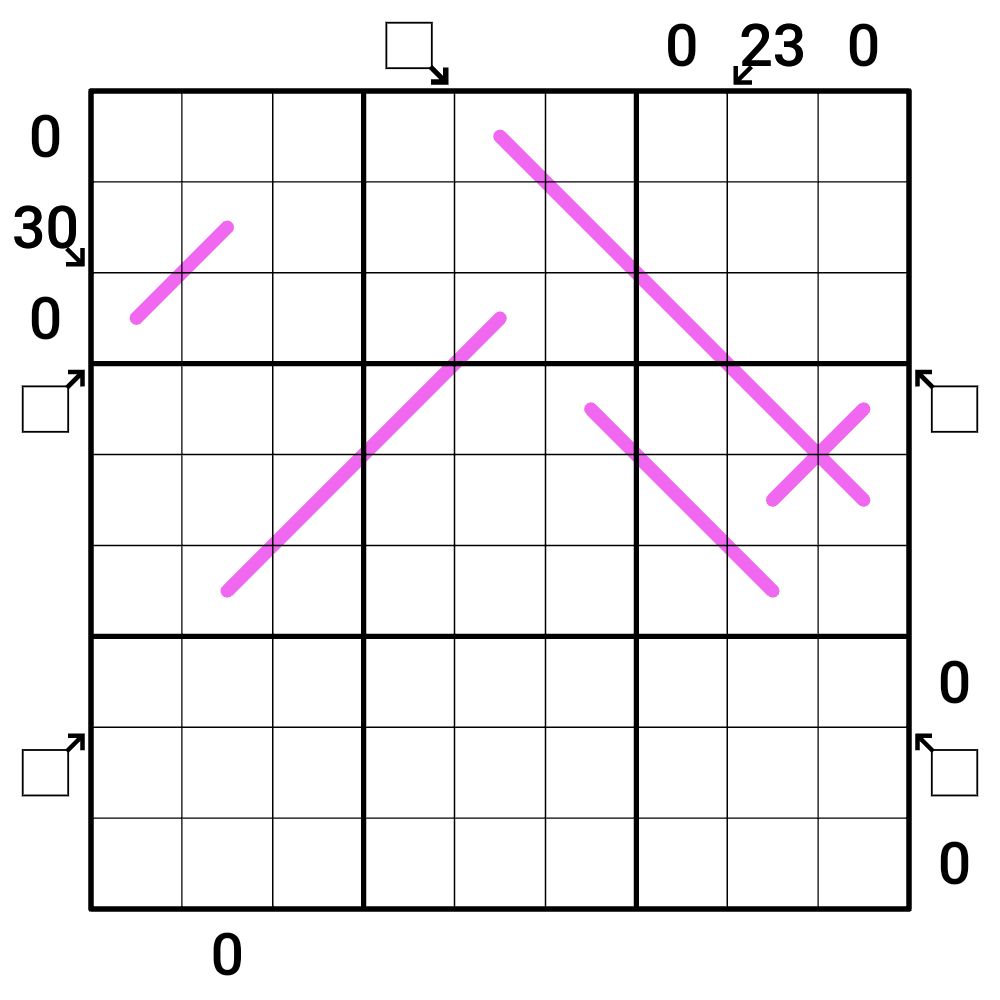
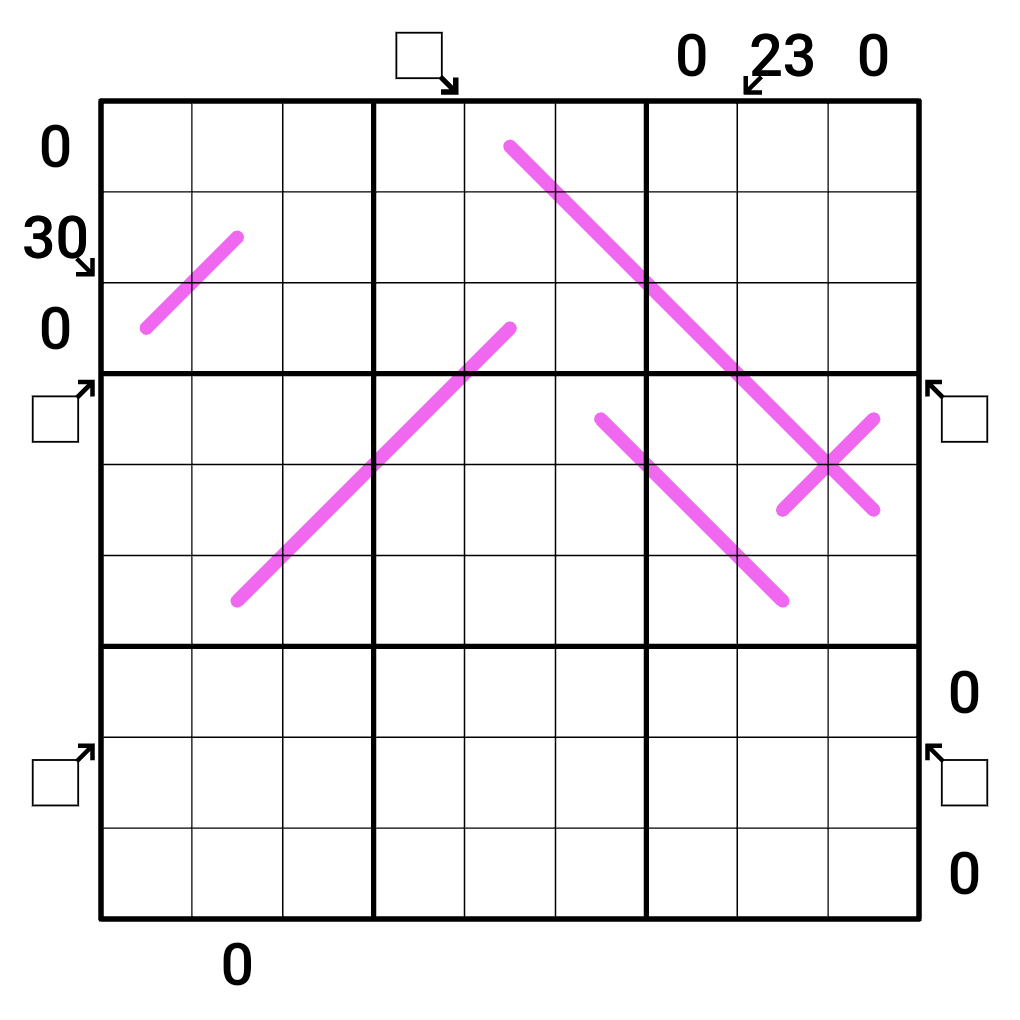
content: auto-sync 2026-08-12 10:54

Changed region(s): [[0.0, 0.0, 0.992, 0.992]]

diff --git a/src/content/what/puzzles/convergent-clues/little-fillers-2/index.md b/src/content/what/puzzles/convergent-clues/little-fillers-2/index.md
@@ -1,5 +1,5 @@
 ---
-inspected: false
+inspected: true
 title: Little Fillers 2
 date: 2025-01-27
 series: convergent-clues
@@ -9,6 +9,8 @@ sudokupad_url: https://sudokupad.app/pdyxs/little-fillers-2
 image: bild.png
 difficulty: Level 3 (Medium)
 tags: []
+imagePad: 2%
+description: Now without digits!
 ---
 
 A sequel to [Little Fillers](card:what/puzzles/convergent-clues/little-fillers), this time without any digits! This has been percolating in my mind ever since I made Little Fillers - I think I've found some really nice logic using these combined variants.

diff --git a/src/content/what/puzzles/experimental-fog/a-murder-most-fogged/index.md b/src/content/what/puzzles/experimental-fog/a-murder-most-fogged/index.md
@@ -9,6 +9,7 @@ sudokupad_url: https://sudokupad.app/pdyxs/a-murder-most-fogged
 image: bild.png
 difficulty: Level 2 (Easy)
 tags: []
+imagePad: 2.5%
 ---
 
 This is a continuation of the concepts I started to explore in [The Grid of Forking Paths](card:what/puzzles/experimental-fog/the-grid-of-forking-paths). In this puzzle, how much fog you have (and therefore how hard the puzzle is) is entirely up to you!

diff --git a/src/content/what/puzzles/experimental-fog/whispers-in-the-mist/index.md b/src/content/what/puzzles/experimental-fog/whispers-in-the-mist/index.md
@@ -9,6 +9,7 @@ sudokupad_url: https://sudokupad.app/pdyxs/whispers-in-the-mist
 image: bild.png
 difficulty: Level 2 (Easy)
 tags: []
+imagePad: 2.5%
 ---
 
 Here's another entry in my ['Experimental fog' series](collection:what:puzzles/experimental-fog). Here I'm continuing to explore how fog clearance could itself be information, this time combining it with yin-yang rules.

diff --git a/src/content/what/puzzles/convergent-clues/the-clone-gunmen/index.md b/src/content/what/puzzles/convergent-clues/the-clone-gunmen/index.md
@@ -9,6 +9,8 @@ sudokupad_url: https://sudokupad.app/pdyxs/the-clone-gunmen
 image: bild.png
 difficulty: Level 4 (Hard)
 tags: []
+imagePad: 2.5%
+description:
 ---
 
 After not creating any puzzles for over a year, the concept for this rule came to me while solving another puzzle. It's turned out to be a nice and simple ruleset with some quite interesting consequences.

diff --git a/src/content/what/puzzles/experimental-fog/some-things-fogn/index.md b/src/content/what/puzzles/experimental-fog/some-things-fogn/index.md
@@ -9,6 +9,7 @@ sudokupad_url: https://sudokupad.app/pdyxs/some-things-fogn
 image: bild.png
 difficulty: Level 4 (Hard)
 tags: []
+imagePad: 2.5%
 ---
 
 Some things are fogn, and others are wrogn. On the heels of [Whispers in the Mist](card:what/puzzles/experimental-fog/whispers-in-the-mist), I had a fun idea of how yin-yang fog could be used in a wrogn puzzle.

diff --git a/src/content/what/puzzles/timeline/this-is-how-you-live-the-time-war/index.md b/src/content/what/puzzles/timeline/this-is-how-you-live-the-time-war/index.md
@@ -9,6 +9,7 @@ sudokupad_url: https://sudokupad.app/pdyxs/this-is-how-you-live-the-time-war
 image: bild.png
 difficulty: Level 4 (Hard)
 tags: []
+imagePad: 1.5%
 ---
 
 I've always loved time travel stories, and 'This is how you lose the Time War' is one of my favourites. This puzzle is my attempt at an adaptation.

diff --git a/src/content/what/puzzles/convergent-clues/little-fillers/index.md b/src/content/what/puzzles/convergent-clues/little-fillers/index.md
@@ -1,5 +1,5 @@
 ---
-inspected: false
+inspected: true
 title: Little Fillers
 date: 2024-12-20
 series: convergent-clues
@@ -9,6 +9,8 @@ sudokupad_url: https://sudokupad.app/vnbsxmljuc
 image: bild.png
 difficulty: Level 3 (Medium)
 tags: []
+imagePad: 1%
+description: When fillers are killers
 ---
 
 ## Rules

diff --git a/src/content/what/puzzles/experimental-fog/friends-in-the-fog/index.md b/src/content/what/puzzles/experimental-fog/friends-in-the-fog/index.md
@@ -9,6 +9,7 @@ sudokupad_url: https://sudokupad.app/pdyxs/friends-in-the-fog
 image: bild.png
 difficulty: Level 2 (Easy)
 tags: []
+imagePad: 2.5%
 ---
 
 This is a follow-up to [Whispers in the Mist](card:what/puzzles/experimental-fog/whispers-in-the-mist), where fog clearance has a clear and defined meaning.

diff --git a/src/content/what/puzzles/timeline/this-is-how-you-learn-the-time-war/index.md b/src/content/what/puzzles/timeline/this-is-how-you-learn-the-time-war/index.md
@@ -9,6 +9,7 @@ sudokupad_url: https://sudokupad.app/pdyxs/this-is-how-you-learn-the-time-war
 image: bild.png
 difficulty: Level 4 (Hard)
 tags: []
+imagePad: 2%
 ---
 
 This is the first of two puzzles based on the novel 'This is how you lose the time war', which is one of my favourites of the last few years.

diff --git a/src/content/what/puzzles/experimental-fog/recounting-the-counting/index.md b/src/content/what/puzzles/experimental-fog/recounting-the-counting/index.md
@@ -9,6 +9,7 @@ sudokupad_url: https://sudokupad.app/pdyxs/recounting-the-counting
 image: bild.png
 difficulty: Level 3 (Medium)
 tags: []
+imagePad: 2.5%
 ---
 
 This is an approachable puzzle, based on the idea that a counting circle's value might need to change if more counting circles are revealed.

diff --git a/src/content/what/puzzles/plans-of-a-medic/index.md b/src/content/what/puzzles/plans-of-a-medic/index.md
@@ -7,6 +7,7 @@ sudokupad_url: https://sudokupad.app/ub8mqh71eu
 image: bild.png
 difficulty: Level 4 (Hard)
 tags: []
+imagePad: 1.5%
 ---
 
 This is a puzzle based on the board game Pandemic, where you start at a city and move between cities to treat diseases, prevent outbreaks and find cures.

diff --git a/src/content/what/puzzles/experimental-fog/cartography/index.md b/src/content/what/puzzles/experimental-fog/cartography/index.md
@@ -9,6 +9,7 @@ sudokupad_url: https://sudokupad.app/pdyxs/cartography
 image: bild.png
 difficulty: Level 3 (Medium)
 tags: []
+imagePad: 2.5%
 ---
 
 What if the fog clearance *was* the information...? This is a strange and experimental puzzle, which really changes the way you solve a sudoku.
